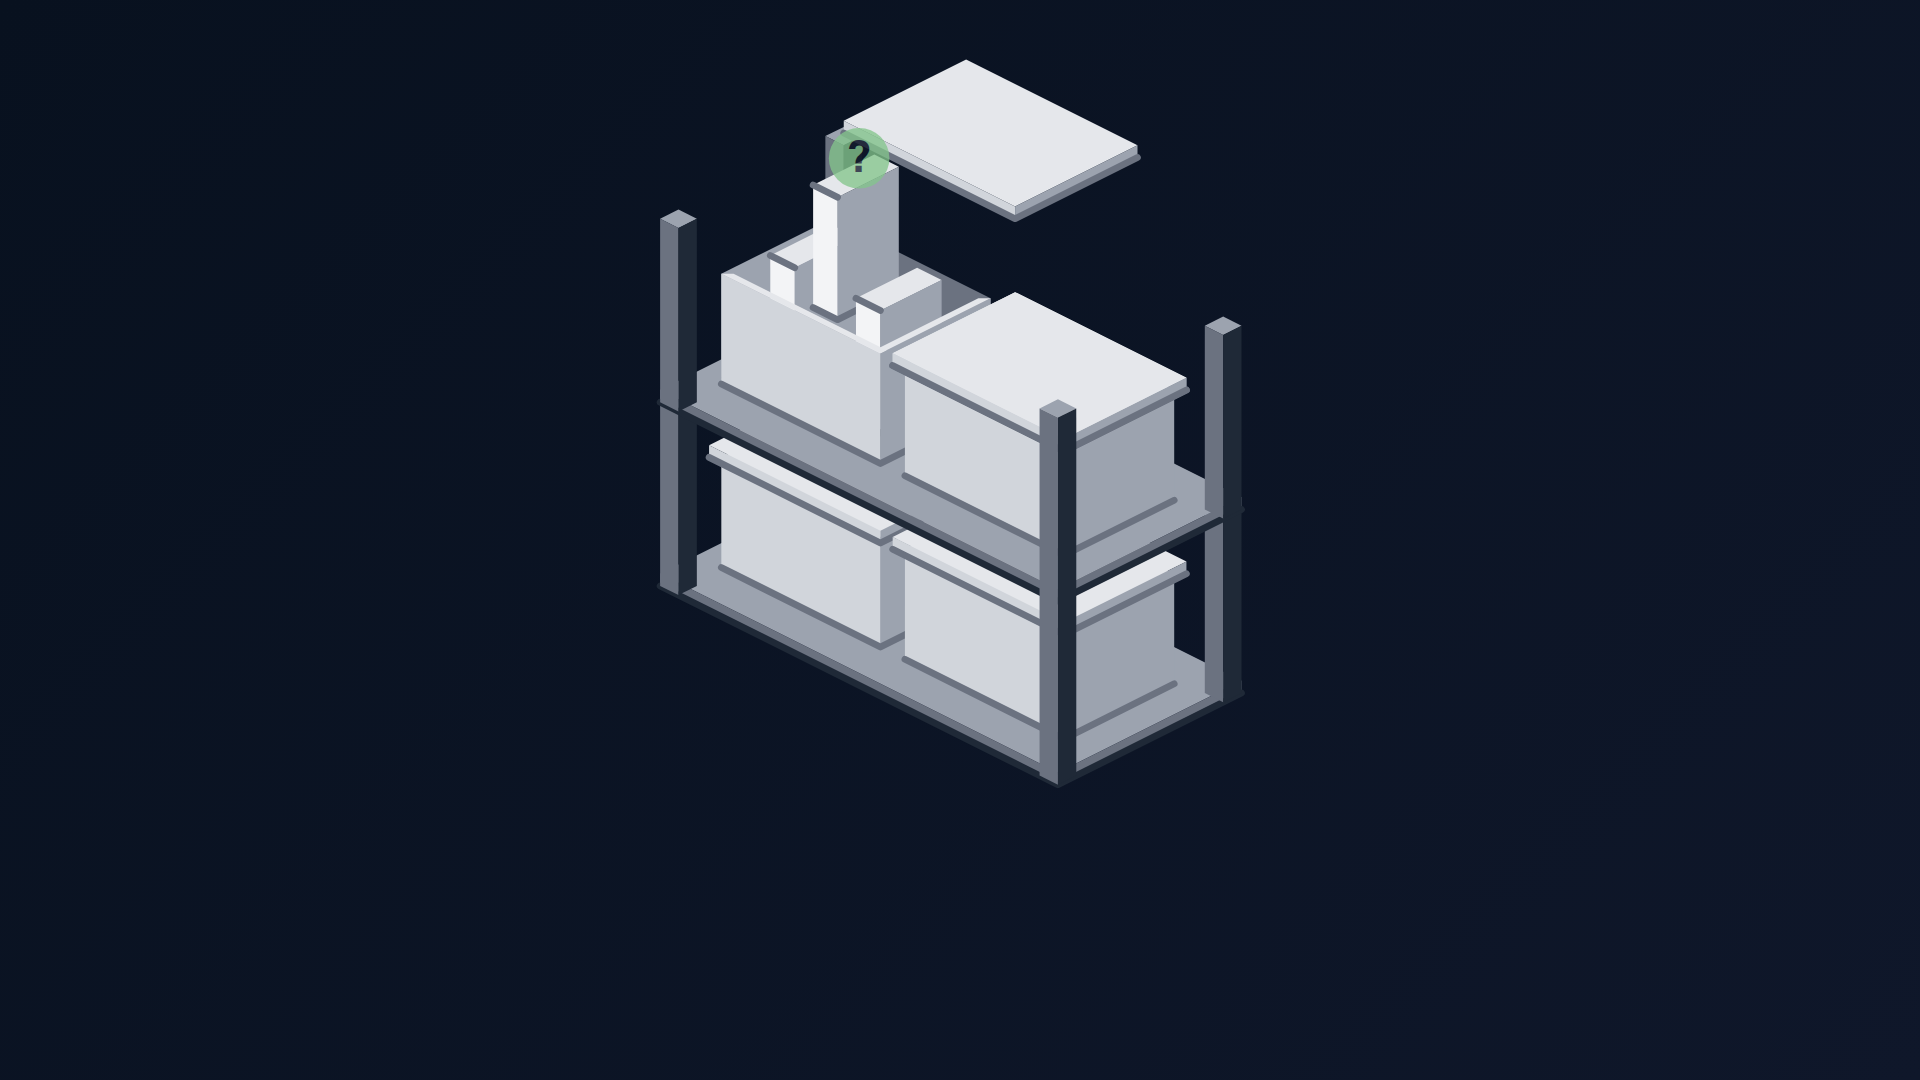
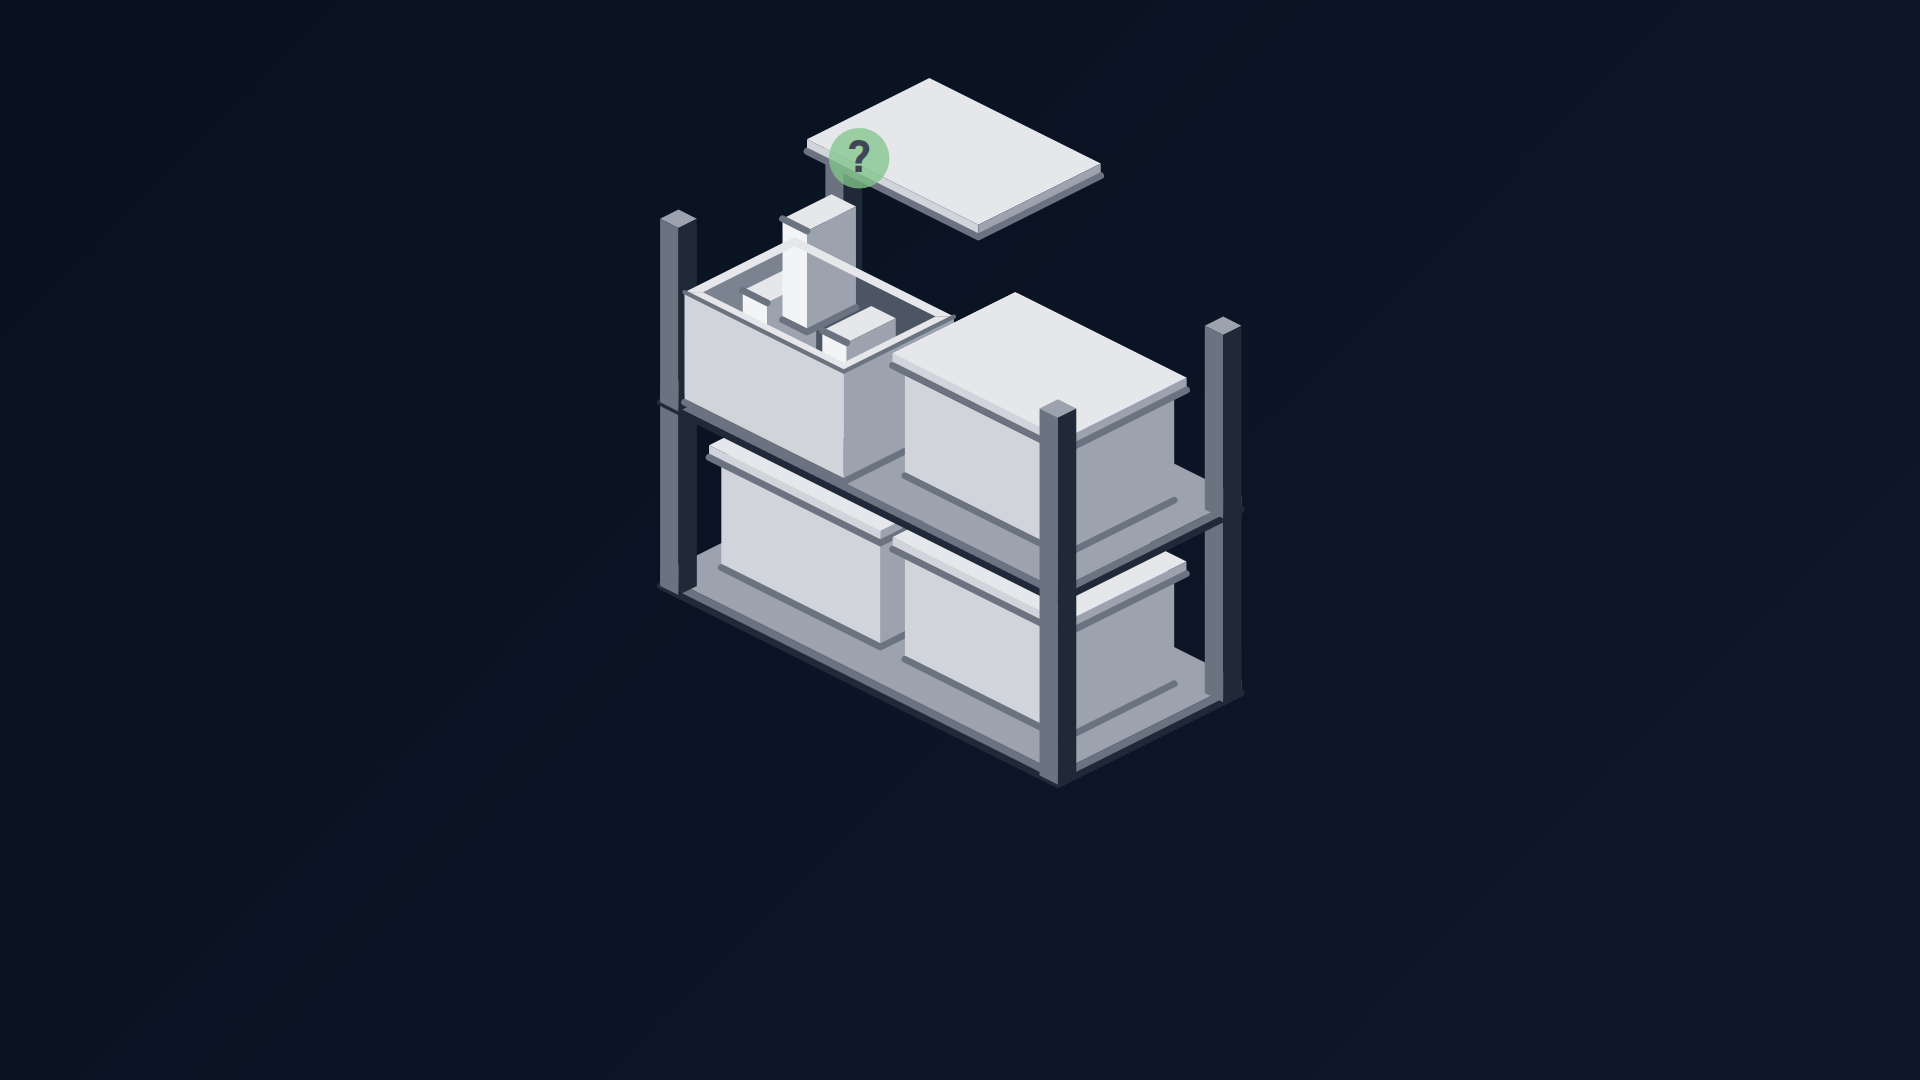
video: kolo 19 – C3 krabica sa vytiahne z police a má viditeľnú hĺbku, C5 plynulý let nálepiek a ID pri rámiku
- OpenCarton: tmavšie zadné steny, dno, lem všetkých stien
- C3: prehľadávaná krabica sa vytiahne dopredu, otvorí, zatvorí a zasunie
- C5: let nálepky 700 ms, dosadnutie sklopené do roviny plochy, QR sa objaví
  presne v okamihu doletu; ID zložky ZL_12 ako štítok pri zelenom rámiku

Claude-Session: https://claude.ai/code/session_0174g5XfE49UzAEjnWwaQFuK

Changed region(s): [[0.3438, 0.1222, 0.5312, 0.4583], [0.4688, 0.0611, 0.5938, 0.1833]]

diff --git a/video/src/scenes/C5_Teren.tsx b/video/src/scenes/C5_Teren.tsx
@@ -14,10 +14,11 @@ import { BRAND, CM, INK, ISO, SAFE } from '../theme';
  * (7x15 cm x1.4) v jednej mierke odvodenej z krabice. QR cierno-biele.
  * Zaver: najazd do displeja mobilu = strih na footage. 10 s.
  *
- * ms: 300 zatvorena krabica · 900 harok · 1500-2000 nalepka z harku na
- * krabicu · 2400 veko + zlozky · 3000/3400/3800 nalepky na zlozky (dolet
- * 3500/3900/4300) · 4600 predna zlozka sa vytiahne · 4900 mobil · 5400 ramik
- * na stitok zlozky · 5200 mobil sa priblizi · 5500 blesk · 6000 ID zlozky ·
+ * ms: 300 zatvorena krabica · 900 harok · 1500-2200 nalepka z harku na
+ * krabicu (let 700 ms, dosadne sklopena do roviny steny) · 2400 veko +
+ * zlozky · 3000/3500/4000 nalepky na zlozky (dolet 3700/4200/4700) · 4600
+ * predna zlozka sa vytiahne · 4900 mobil · 5400 ramik na zlozku · 5200 mobil
+ * sa priblizi · 5500 blesk · 6000 ID zlozky ako stitok pri ramiku ·
  * 5800-7400 kamera najde na zlozku + mobil · 7600-9300 najazd do displeja =
  * strih do reality (fotenie stitku cez appku).
  */
@@ -36,15 +37,17 @@ export const C5_Teren: React.FC = () => {
   const appear = settle(frame, 300);
   const sheet = settle(frame, 900);
   // lety nalepiek: z bunky harku (r, c) na ciel v krabici (suradnice viewBox 240); dolet = pop QR
+  // skew = sklon plochy, na ktoru nalepka doleta (krabica: prava stena -26,6 stupna; zlozky: predna plocha +26,6 stupna)
   const FLIGHTS = [
-    { cell: [0, 0], start: 1500, target: [140.49, 145.75], size: 16, qr: 3 },
-    { cell: [0, 1], start: 3000, target: [86, 135 - 40], size: 14, qr: 0 },
-    { cell: [0, 2], start: 3400, target: [114, 121 - 40], size: 14, qr: 1 },
-    { cell: [0, 3], start: 3800, target: [142, 107 - 40], size: 14, qr: 2 },
+    { cell: [0, 0], start: 1500, target: [140.49, 145.75], size: 16, qr: 3, skew: -26.57 },
+    { cell: [0, 1], start: 3000, target: [86, 135 - 40], size: 14, qr: 0, skew: 26.57 },
+    { cell: [0, 2], start: 3500, target: [114, 121 - 40], size: 14, qr: 1, skew: 26.57 },
+    { cell: [0, 3], start: 4000, target: [142, 107 - 40], size: 14, qr: 2, skew: 26.57 },
   ] as const;
-  const FLY = 500;
+  const FLY = 700;
+  // nalepena QR sa objavi v okamihu doletu v plnej velkosti (letiaca nalepka ma v tom momente rovnaku velkost aj sklon)
   const qr: [number, number, number, number] = [0, 0, 0, 0];
-  FLIGHTS.forEach((f) => (qr[f.qr] = pop(frame, f.start + FLY)));
+  FLIGHTS.forEach((f) => (qr[f.qr] = (frame * 1000) / 30 >= f.start + FLY - 1 ? 1 : 0));
   // po nalepeni sa predna zlozka vytiahne z krabice (o dalsich 60 j.) a mobil mieri na jej stitok
   const pull = tw(4600, 500);
   const box = {
@@ -137,10 +140,12 @@ export const C5_Teren: React.FC = () => {
           const x = (1 - t) * (1 - t) * ax + 2 * (1 - t) * t * cx + t * t * bx;
           const y = (1 - t) * (1 - t) * ay + 2 * (1 - t) * t * cy + t * t * by;
           const size0 = 36 * sc,
-            size1 = (f.size / 240) * BOX * 1.1 * QR_SCALE;
+            size1 = (f.size / 240) * BOX * QR_SCALE;
           const size = size0 + (size1 - size0) * t;
+          // dosadnutie: v poslednej tretine letu sa nalepka sklopi do roviny plochy a tien zmizne
+          const land = Math.max(0, (t - 0.65) / 0.35);
           return (
-            <svg key={i} width={size} height={size} viewBox="0 0 36 36" style={{ position: 'absolute', left: x - size / 2, top: y - size / 2, transform: `rotate(${-8 + 8 * t}deg)`, filter: 'drop-shadow(0 4px 6px rgba(0,0,0,0.18))' }}>
+            <svg key={i} width={size} height={size} viewBox="0 0 36 36" style={{ position: 'absolute', left: x - size / 2, top: y - size / 2, transform: `rotate(${-8 * (1 - t)}deg) skewY(${f.skew * land}deg)`, filter: `drop-shadow(0 ${4 * (1 - land)}px ${6 * (1 - land)}px rgba(0,0,0,${0.18 * (1 - land)}))` }}>
               <rect x={0.5} y={0.5} width={35} height={35} fill="#fff" stroke={ISO.edge} strokeWidth={0.8} />
               {[
                 [4, 4],
@@ -170,36 +175,30 @@ export const C5_Teren: React.FC = () => {
           );
         })}
 
-        {/* ID vytiahnutej zlozky hore vpravo vedla krabice (ink, nie zelene) */}
-        <div
-          style={{
-            position: 'absolute',
-            left: 1290,
-            top: 60,
-            padding: '8px 20px',
-            borderRadius: 8,
-            background: INK[900],
-            color: '#fff',
-            fontFamily: 'ui-monospace, SFMono-Regular, Menlo, monospace',
-            fontSize: 40,
-            fontWeight: 600,
-            letterSpacing: '0.04em',
-            opacity: Math.min(1, idT * 1.5),
-            transform: `translateY(${(1 - idT) * 20}px) scale(${0.7 + 0.3 * idT})`,
-          }}
-        >
-          ZL_12
-        </div>
-
         {/* zeleny ramik "odfotene" okolo celej vytiahnutej zlozky */}
-        <svg width={1920} height={1080} style={{ position: 'absolute', left: 0, top: 0, opacity: frameBox, pointerEvents: 'none' }}>
+        <svg width={1920} height={1080} style={{ position: 'absolute', left: 0, top: 0, opacity: Math.max(frameBox, idT), pointerEvents: 'none' }}>
           {(() => {
             // ramik "odfotene" okolo celej vytiahnutej prednej zlozky (nie len QR)
             const cx = boxLeft + ((93 + 78 * pull) / 240) * BOX,
               cy = boxTop + ((146.5 - 40 * box.binders[0] + 34 * pull) / 240) * BOX;
             const w = (50 / 240) * BOX,
               h = (80 / 240) * BOX;
-            return <rect x={cx - w / 2} y={cy - h / 2} width={w} height={h} fill="none" stroke={BRAND[600]} strokeWidth={5} rx={6} transform={`translate(${cx} ${cy}) scale(${1.3 - 0.3 * frameBox}) translate(${-cx} ${-cy})`} />;
+            // ID zlozky ako stitok prilepeny k hornemu pravemu rohu ramika (ide s kamerou, nic ho neprekryva)
+            const chipW = 150,
+              chipH = 52,
+              chipX = cx + w / 2 - chipW,
+              chipY = cy - h / 2 - chipH - 10;
+            return (
+              <g>
+                <rect x={cx - w / 2} y={cy - h / 2} width={w} height={h} fill="none" stroke={BRAND[600]} strokeWidth={5} rx={6} transform={`translate(${cx} ${cy}) scale(${1.3 - 0.3 * frameBox}) translate(${-cx} ${-cy})`} />
+                <g opacity={Math.min(1, idT * 1.5)} transform={`translate(${chipX + chipW / 2} ${chipY + chipH}) scale(${0.7 + 0.3 * idT}) translate(${-(chipX + chipW / 2)} ${-(chipY + chipH)})`}>
+                  <rect x={chipX} y={chipY} width={chipW} height={chipH} rx={8} fill={INK[900]} />
+                  <text x={chipX + chipW / 2} y={chipY + chipH / 2 + 11} textAnchor="middle" fontFamily="ui-monospace, SFMono-Regular, Menlo, monospace" fontSize={30} fontWeight={600} letterSpacing="0.04em" fill="#fff">
+                    ZL_12
+                  </text>
+                </g>
+              </g>
+            );
           })()}
         </svg>
       </div>

diff --git a/video/src/scenes/C3_Sklad.tsx b/video/src/scenes/C3_Sklad.tsx
@@ -12,8 +12,8 @@ import { BRAND, CM, SAFE } from '../theme';
 /**
  * C3 - Sklad -> regal. Siroky zaber (regaly, palety, postavicka kluckuje
  * ulickou, cesta pod objektmi, "?"), kamera najde na policu s dvoma krabicami:
- * prva sa otvori, zlozky sa postupne vyberu a vratia, zatvori sa; to iste
- * druha; nic sa nenaslo, "?" nad regalom. Sklad je na scene hned. Koniec = zaciatok C4. 13 s.
+ * prva sa vytiahne dopredu, otvori, zlozky sa postupne vyberu a vratia,
+ * zatvori a zasunie; to iste druha; nic sa nenaslo, "?" nad regalom. Sklad je na scene hned. Koniec = zaciatok C4. 13 s.
  */
 export const SV = 1.7;
 export const VB = { x: -565, y: -100 };
@@ -47,18 +47,21 @@ export const CAM_END = { x: T[0] - 960, y: T[1] - 540, scale: ZOOM };
 
 /** Otvorenie krabice: veko hore, 3 zlozky sa postupne vyberu (zdvihnu, podrzia, vratia), veko dole. */
 export const searchBox = (tw: (s: number, d: number) => number, start: number) => {
+  // krabica sa najprv vytiahne z police dopredu (vidno jej bocnu stenu a hlbku), na konci sa zasunie
+  const out = tw(start - 400, 400) * (1 - tw(start + 3000, 400));
   const lid = tw(start, 400) * (1 - tw(start + 2600, 400));
   const binders = [0, 1, 2].map((i) => {
     const s = start + 500 + i * 650;
     return tw(s, 250) * (1 - tw(s + 400, 250));
   }) as [number, number, number];
-  return { lid, binders };
+  return { out, lid, binders };
 };
 
-export const SearchCarton: React.FC<{ x: number; y: number; z: number; lid: number; binders: [number, number, number] }> = ({ x, y, z, lid, binders }) => {
+export const SearchCarton: React.FC<{ x: number; y: number; z: number; out?: number; lid: number; binders: [number, number, number] }> = ({ x, y: y0, z, out = 0, lid, binders }) => {
   const w = CM.carton.w,
     d = CM.carton.d,
     h = CM.carton.h;
+  const y = y0 + 12 * out; // vytiahnuta dopredu az po hranu police
   const isOpen = lid > 0.05;
   return (
     <g>
@@ -66,7 +69,7 @@ export const SearchCarton: React.FC<{ x: number; y: number; z: number; lid: numb
         <OpenCarton x={x} y={y} z={z} w={w} d={d} h={h}>
           {/* zlozky stojace vnutri: pri vybrati sa zdvihnu nad okraj */}
           {binders.map((b, i) => (
-            <Binder key={i} x={x + 8 + i * 14} y={y + 8} z={z + 2} w={8} d={d - 16} h={CM.binder.h - 4} lift={b * 30} />
+            <Binder key={i} x={x + 9 + i * 13} y={y + 10} z={z + 3} w={8} d={d - 20} h={h - 3} lift={b * 30} />
           ))}
         </OpenCarton>
       ) : (
@@ -148,7 +151,7 @@ export const C3_Sklad: React.FC = () => {
                         cz = lvl * CM.shelf.level + 4;
                       if (isTarget && lvl === SHELF_LEVEL) {
                         const st = k === 0 ? A : B;
-                        return <SearchCarton key={`${lvl}${k}`} x={cx} y={cy} z={cz} lid={st.lid} binders={st.binders} />;
+                        return <SearchCarton key={`${lvl}${k}`} x={cx} y={cy} z={cz} out={st.out} lid={st.lid} binders={st.binders} />;
                       }
                       return <Carton key={`${lvl}${k}`} x={cx} y={cy} z={cz} />;
                     })

diff --git a/video/src/lib/iso.tsx b/video/src/lib/iso.tsx
@@ -259,28 +259,32 @@ export const OpenCarton: React.FC<{ x: number; y: number; z: number; w?: number;
   h = 36,
   children,
 }) => {
-  const t = 2; // hrubka steny
+  const t = 3; // hrubka steny
   const A0 = iso(x, y, z + t),
     B0 = iso(x + w, y, z + t),
     C0 = iso(x + w, y + d, z + t),
     D0 = iso(x, y + d, z + t);
   const A1 = iso(x, y, z + h),
     B1 = iso(x + w, y, z + h),
+    C1 = iso(x + w, y + d, z + h),
     D1 = iso(x, y + d, z + h);
   return (
     <g>
-      {/* vnutorne zadne steny (x = 0 a y = 0) a dno */}
-      <polygon points={pts([A1, B1, B0, A0])} fill={ISO.edge} />
-      <polygon points={pts([A1, D1, D0, A0])} fill={ISO.right} />
-      <polygon points={pts([A0, B0, C0, D0])} fill="#7b8290" />
+      {/* vnutro: zadne steny (x = 0 a y = 0) tmavsie ako vonkajsie a dno - aby bolo vidiet hlbku */}
+      <polygon points={pts([A1, B1, B0, A0])} fill="#4b5563" />
+      <polygon points={pts([A1, D1, D0, A0])} fill="#7b8290" />
+      <polygon points={pts([A0, B0, C0, D0])} fill="#374151" />
       {children}
       {/* predne steny bez vrchnej plochy */}
-      <polygon points={pts([D1, iso(x + w, y + d, z + h), iso(x + w, y + d, z), iso(x, y + d, z)])} fill={ISO.left} />
-      <polygon points={pts([B1, iso(x + w, y + d, z + h), iso(x + w, y + d, z), iso(x + w, y, z)])} fill={ISO.right} />
+      <polygon points={pts([D1, C1, iso(x + w, y + d, z), iso(x, y + d, z)])} fill={ISO.left} />
+      <polygon points={pts([B1, C1, iso(x + w, y + d, z), iso(x + w, y, z)])} fill={ISO.right} />
       <polyline points={pts([iso(x, y + d, z), iso(x + w, y + d, z), iso(x + w, y, z)])} fill="none" stroke={ISO.edge} strokeWidth={2.2} strokeLinecap="round" strokeLinejoin="round" />
-      {/* horny okraj sten (hrubka t) */}
-      <polygon points={pts([D1, iso(x + w, y + d, z + h), iso(x + w, y + d - t, z + h), iso(x + t, y + d - t, z + h)])} fill={ISO.top} />
-      <polygon points={pts([B1, iso(x + w, y + d, z + h), iso(x + w - t, y + d - t, z + h), iso(x + w - t, y + t, z + h)])} fill={ISO.top} />
+      {/* horny okraj vsetkych styroch sten (hrubka t) */}
+      <polygon points={pts([A1, B1, iso(x + w - t, y + t, z + h), iso(x + t, y + t, z + h)])} fill={ISO.top} />
+      <polygon points={pts([A1, D1, iso(x + t, y + d - t, z + h), iso(x + t, y + t, z + h)])} fill={ISO.top} />
+      <polygon points={pts([D1, C1, iso(x + w - t, y + d - t, z + h), iso(x + t, y + d - t, z + h)])} fill={ISO.top} />
+      <polygon points={pts([B1, C1, iso(x + w - t, y + d - t, z + h), iso(x + w - t, y + t, z + h)])} fill={ISO.top} />
+      <polyline points={pts([D1, C1, B1])} fill="none" stroke={ISO.edge} strokeWidth={1.4} strokeLinecap="round" strokeLinejoin="round" />
     </g>
   );
 };

diff --git a/video/STORYBOARD.md b/video/STORYBOARD.md
@@ -1,4 +1,4 @@
-# Storyboard – Assetin Archives (kolo 17, prvé footage)
+# Storyboard – Assetin Archives (kolo 19)
 
 Stav: ☐ still na schválenie · ☑ still schválený · ▶ animácia hotová · 🎞 finálne MP4
 
@@ -13,9 +13,9 @@ strihový bod pre footage; náhľad Full má tvrdé strihy. Titulky v obraze sú
 |---|---|---|---|---|---|---|
 | C1-Intro | Intro | navy | Lockup podľa assetin-design-kitu: stohovaný logotyp „assetin“ / „.space“ vypláva, zvislý oddeľovač sa nakreslí, „Archives“ vyjde spoza neho; hold; „Archives“ sa zasunie späť, oddeľovač sa stiahne, logotyp sa priblíži a vybledne do navy | – | 5 s | ☐ ▶ |
 | C2-Kancelaria | Skriňa pri stole | navy | Zelený panáčik príde ku skrini (stolička pred stolom), otvorí krídlo (otáča sa okolo pántu), vnútri šanóny so štítkami, rolky, listy; hľadá („?“ nad hlavou sa jemne vznášajú), vyhadzuje veci – šanón so štítkom, rolka a papiere vyletia oblúkom a dopadnú pred skriňou | 3 s „Dokumentáciu máte. Nikto ju nevie nájsť.“ | 8 s | ☐ ▶ |
-| C3-Sklad | Sklad → regál | navy | Sklad je na scéne hneď; zelená postavička klučkuje uličkou (cesta pod objektmi) a zastaví pred stredným regálom, dva „?“; kamera nájde na jeho hornú policu s dvoma krabicami (regál bez vrchnej dosky, vidno do krabíc), sklad vybledne; prvá krabica: veko sa odklopí, vidno dno a zložky vnútri, zložky sa postupne vyberú a vrátia (pri prvej zložke vyletí bublinka „?“ a zanikne), veko dole; to isté druhá; nič sa nenašlo, väčší „?“ | 3 s „V sklade to nie je lepšie.“ · 10,5 s „Je to niekde tam.“ | 13 s | ☐ ▶ |
+| C3-Sklad | Sklad → regál | navy | Sklad je na scéne hneď; zelená postavička klučkuje uličkou (cesta pod objektmi) a zastaví pred stredným regálom, dva „?“; kamera nájde na jeho hornú policu s dvoma krabicami (regál bez vrchnej dosky, vidno do krabíc), sklad vybledne; prvá krabica sa vytiahne z police dopredu, veko sa odklopí, vidno steny, dno a zložky vnútri, zložky sa postupne vyberú a vrátia (pri prvej zložke vyletí bublinka „?“ a zanikne), veko dole, krabica sa zasunie; to isté druhá; nič sa nenašlo, väčší „?“ | 3 s „V sklade to nie je lepšie.“ · 10,5 s „Je to niekde tam.“ | 13 s | ☐ ▶ |
 | C4-Cena | 2× | navy | Začína rovnakým regálom ako koniec C3; regál sa odsunie doľava, vedľa neho veľký „?“, vedľa hodiny rovnakej veľkosti s točiacou sa ručičkou (hľadanie trvá), šípka k výkresu s pečiatkou (rýchlejšie spraviť nanovo); veľké cenovky pod regálom a výkresom; „2× €€€“ dole v strede | 5,8 s „Zaplatené dvakrát za tú istú dokumentáciu.“ | 9 s | ☐ ▶ |
-| C5-Teren →📹 | V sklade | biela | Zatvorená krabica, priletí hárok nálepiek A4, z neho odletí QR na krabicu; veko sa otvorí, zložky vyjdú a z hárku priletia QR na každú zložku; zložky majú štítky s textom; predná sa vytiahne z krabice, mobil sa k nej priblíži a zameria na štítok, blesk, ID ZL_12; kamera nájde na zložku s mobilom a potom nájazd do displeja → biely frame = strih do reality (footage fotenia štítku) | 5 s „Nalepiť QR, odfotiť. Celá práca v teréne.“ | 10 s | ☐ ▶ |
+| C5-Teren →📹 | V sklade | biela | Zatvorená krabica, priletí hárok nálepiek A4, z neho odletí QR na krabicu (plynulý let 0,7 s, dosadne sklopená do roviny steny); veko sa otvorí, zložky vyjdú a z hárku priletia QR na každú zložku; zložky majú štítky s textom; predná sa vytiahne z krabice, mobil sa k nej priblíži a zameria na štítok, blesk, ID ZL_12 ako štítok pri rámiku; kamera nájde na zložku s mobilom a potom nájazd do displeja → biely frame = strih do reality (footage fotenia štítku) | 5 s „Nalepiť QR, odfotiť. Celá práca v teréne.“ | 10 s | ☐ ▶ |
 | F1-Sken 📹 | Footage: sken štítku | footage | Screen recording z mobilu (2 časti spojené): pridanie jednotky pod KR_01 → Priradiť QR → fotoaparát na štítok s QR → Use Photo → kontrola jednotky → Vytvoriť → nahrávanie prílohy 100 % (zrýchlené 4×). Orez na appku (bez líšt iOS/Safari), vnútri rámika mobilu vľavo; z bieleho konca C5 sa displej stiahne do mobilu; vpravo sprievodný text po krokoch (Krok 1–4) s bodkami postupu; jemné zelené tapy na tlačidlách; fade do bielej (C6) | – | 12,5 s | ☐ ▶ |
 | C6-Spracovanie →📹 (?) | Fotka → aplikácia | biela | Bez zmeny; možno vypadne a footage pôjde rovno za C5 | 3 s „Text z fotky rozpozná a navrhne údaje.“ | 7 s | ☐ ▶ |
 | C7-Hierarchia →📹 | Hierarchia + sken | biela | Začína tou istou krabicou ako C5 (KR_01), kamera sa oddiali, vedľa sa objavia dve rovnaké krabice s medzerou a KR_01 sa do nej zaradí; nad ňou vyrastie prázdna polica (2 rady), pod ňou zložky a dokumenty; mobil naskenuje krabicu, vetva sa zvýrazní zelenou čiarou; kamera nájde späť na policu, krabice sa do nej poukladajú (všetky s menším QR); mobil vľavo hľadá a nájde KR_01 – tá krabica sa zvýrazní (obrys, značka), ostatné stmavnú; strom vybledne, mobil nájde na celý frame → footage | 3 s „Každá položka má svoje miesto.“ | 12 s | ☐ ▶ |

diff --git a/video/FEEDBACK.md b/video/FEEDBACK.md
@@ -124,3 +124,10 @@
 | Klip | Zadanie | Riešenie |
 |---|---|---|
 | F1 Sken | Doriešiť prechod animácia → footage: celá obrazovka alebo orez na appku; jemné „tapy“ na tlačidlách; mobil viac vľavo a vpravo sprievodný text. | Footage orezané o stavovú lištu iOS a lištu Safari, beží vnútri nášho rámika mobilu (rovnaký ako v C5). Prechod: z bieleho framu (koniec C5) sa displej stiahne doľava do mobilu, footage sa škáluje s ním; vpravo sprievodný text po krokoch (Krok 1/4 … 4/4: Typ jednotky · Priradiť QR · Odfotiť štítok · Skontrolovať a vytvoriť) s bodkami postupu; zelené „tapy“ na tlačidlách (Ďalej, Skenovať QR z prílohy, Odfotiť/nahrať, spúšť, Use Photo, Vytvoriť); na konci fade do bielej. |
+
+## Kolo 19 (21. 9. 2026)
+
+| Klip | Zadanie | Riešenie |
+|---|---|---|
+| C3 Sklad | Pri otvorení druhej krabice na polici nevidno jednu stenu krabice ani jej hĺbku. | Prehľadávaná krabica sa najprv vytiahne z police dopredu (po hranu dosky), až potom sa otvorí; po zatvorení sa zasunie späť. Vďaka tomu je vidieť jej pravú stenu (predtým ju prekrývala susedná krabica / stĺpik regálu). Otvorená krabica má nový vnútrajšok: tmavšie zadné steny, tmavé dno a hrubší lem všetkých štyroch stien, zložky sú nižšie a užšie, takže vidno dno okolo nich – krabica má zreteľnú hĺbku. Platí pre obe krabice (`OpenCarton` v `lib/iso.tsx`). |
+| C5 Terén | QR nálepky lietajú sekane; má to byť plynulé a pekne nadväzovať. ZL_01 (ID zložky) je prekryté – dať inde, logicky. | Let nálepky predĺžený z 500 na 700 ms (ease-in-out po oblúku), v poslednej tretine sa nálepka sklopí do roviny plochy, na ktorú dosadá (pravá stena krabice / predná plocha zložky), tieň sa stratí a presne v okamihu dosadnutia ju nahradí nalepená QR v tej istej veľkosti a sklone (predtým nálepka zmizla a QR „vyskočila“ z nuly – to bol ten sek). Lety na zložky 3,0 / 3,5 / 4,0 s. ID zložky ZL_12 už nie je v rohu framu (kamera ho pri nájazde odrezala), ale ako štítok prilepený k hornému pravému rohu zeleného rámika okolo zložky – ide s kamerou a nič ho neprekrýva. |
